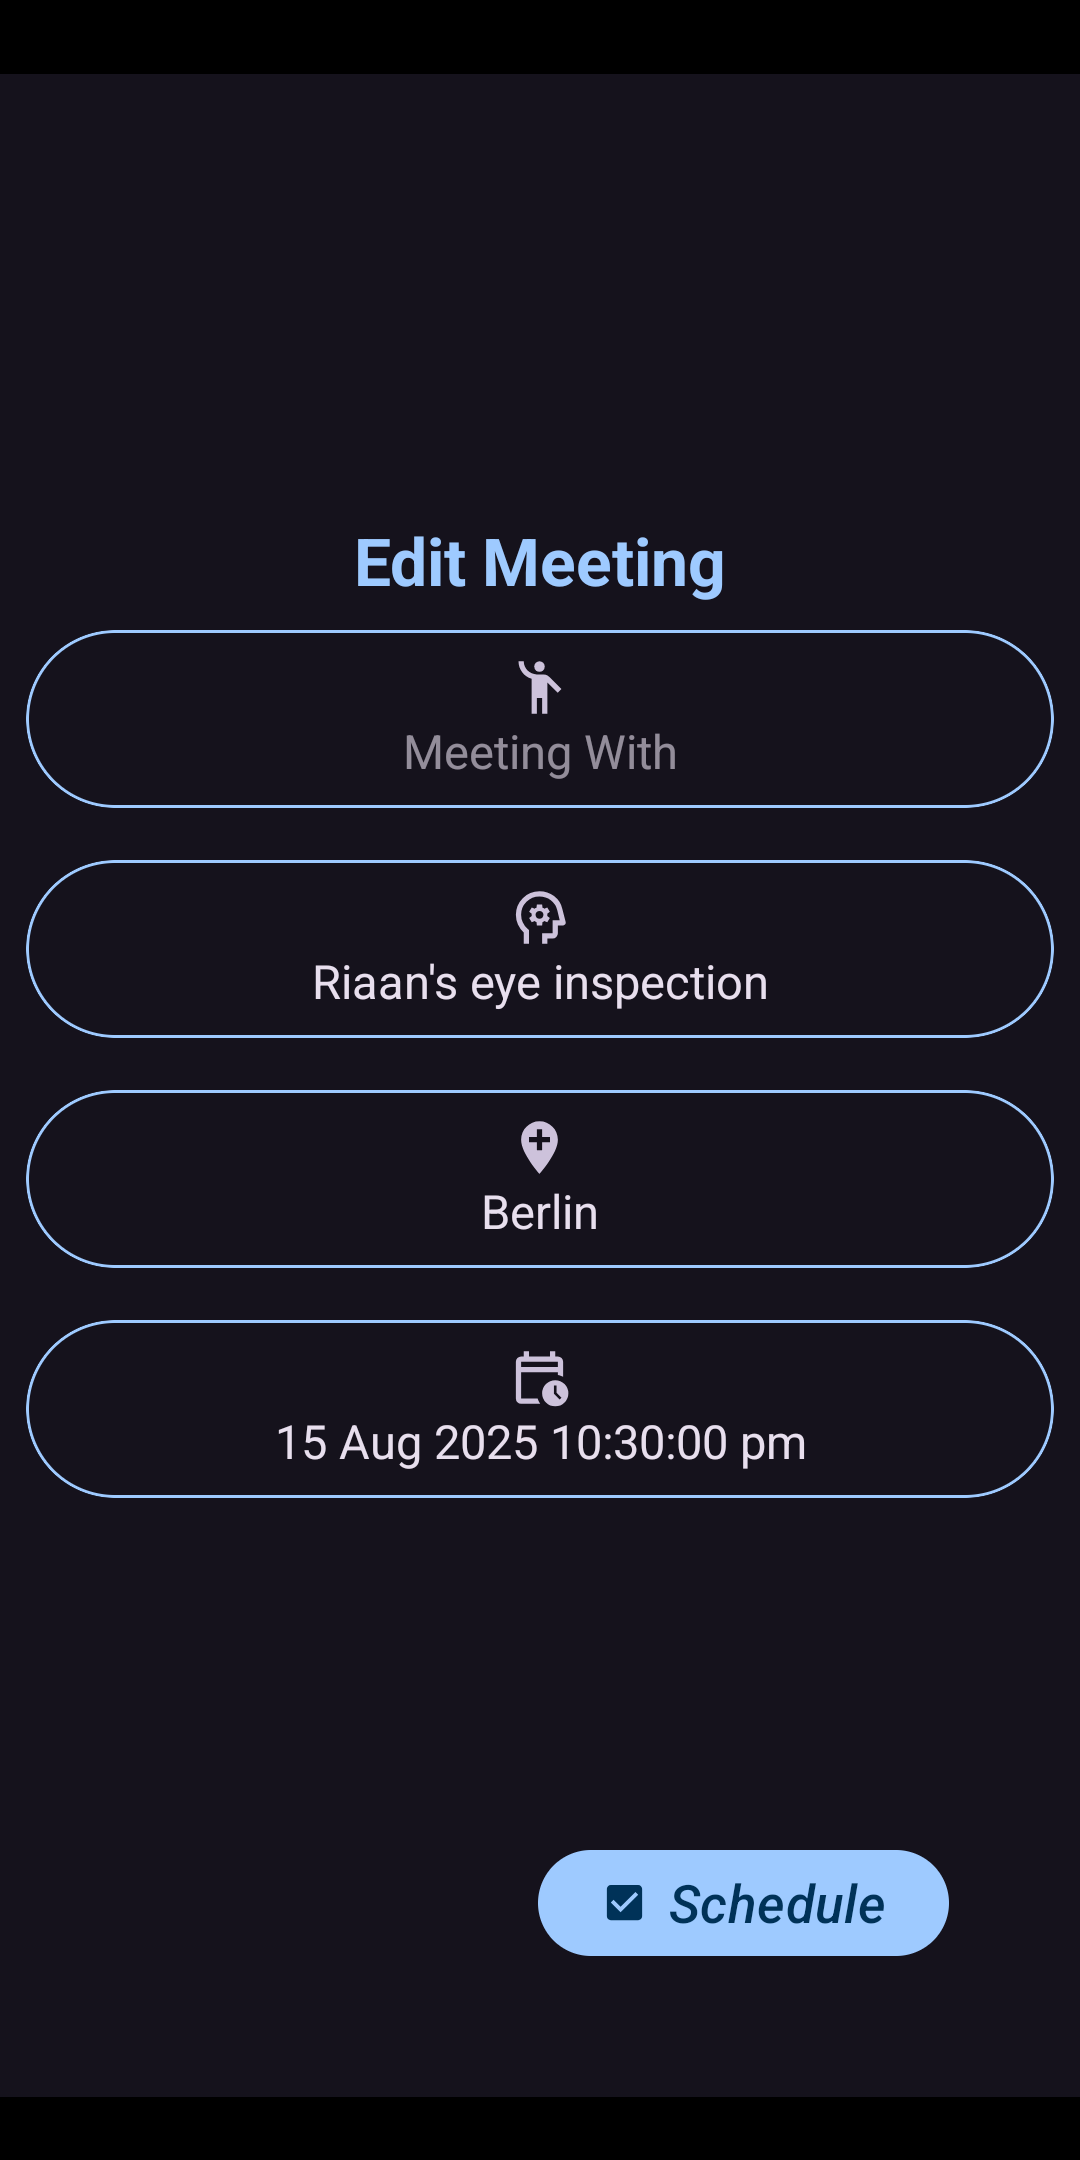
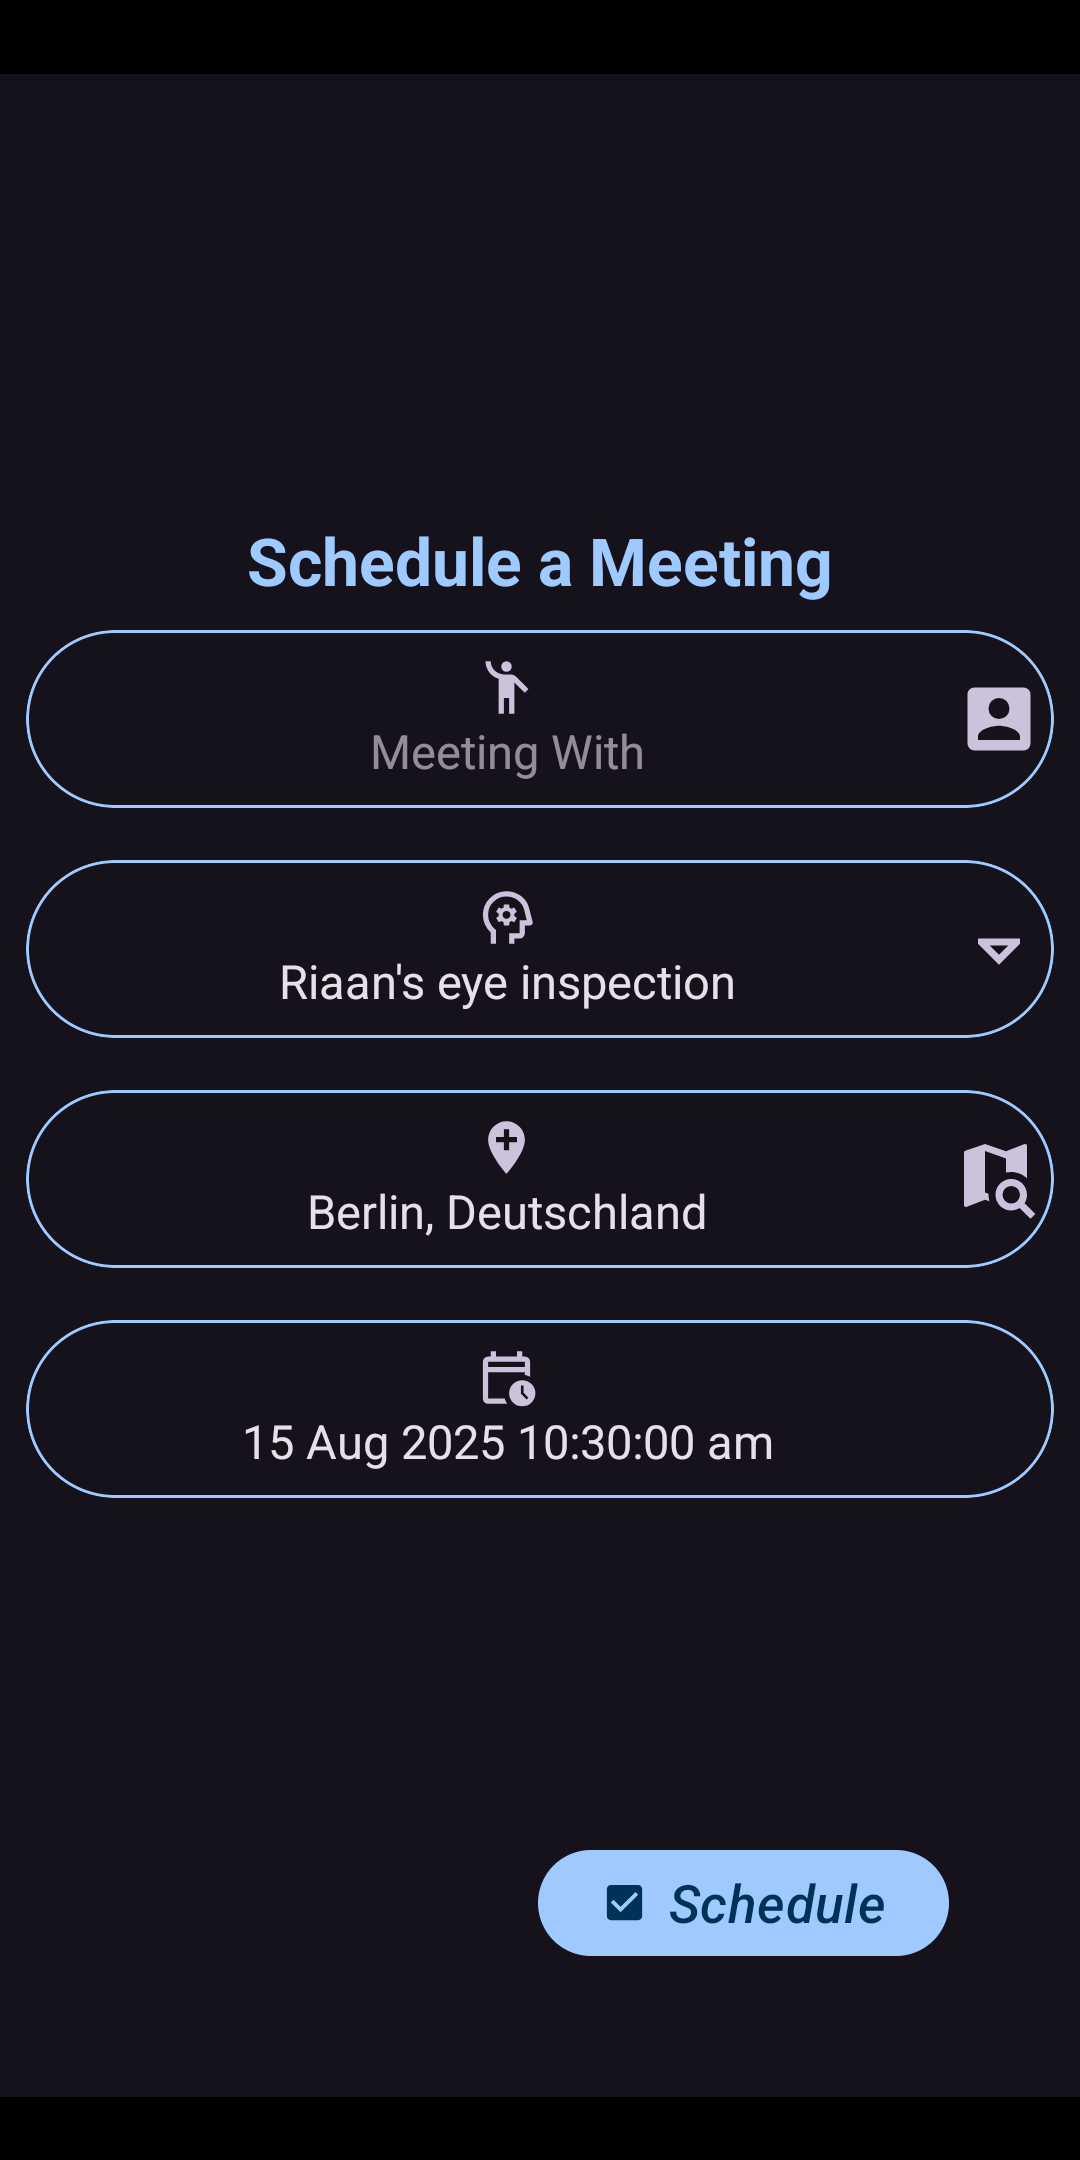
Meetly v0.3

diff --git a/_pages/privacypolicy.md b/_pages/privacypolicy.md
@@ -25,9 +25,11 @@ We do not collect, store, or share any personal information about our users. Use
 Meetly requires the following permissions to deliver its features:
 
 1. *CAMERA*: Used to scan QR codes for quickly importing or sharing meeting details with other Meetly users.
-2. *POST_NOTIFICATIONS*: Allows the app to send optional meeting reminders and alerts to keep you informed.
-3. *USE_BIOMETRIC*: Required to enable biometric authentication (e.g., fingerprint) for securing AppSigner.
-4. *VIBRATE*: Enables subtle vibration feedback for notifications and in-app alerts, improving user experience.
+2. *INTERNET*: Allows the app to fetch location data from www.openstreetmap.org to provide location suggestions.
+3. *POST_NOTIFICATIONS*: Allows the app to send optional meeting reminders and alerts to keep you informed.
+4. *READ_CONTACTS*: Used to autofill participant details from your address book.
+5. *USE_BIOMETRIC*: Required to enable biometric authentication (e.g., fingerprint) for securing AppSigner.
+6. *VIBRATE*: Enables subtle vibration feedback for notifications and in-app alerts, improving user experience.
 
 <h3 style="color: green">Contact Us</h3>
 

diff --git a/_pages/changelog.md b/_pages/changelog.md
@@ -6,5 +6,16 @@ include_in_header: true
 
 <h2 style="color: blue">What's New</h2>
 
+<h3 style="color: green">v0.3</h3>
+- Added support for searching locations via www.openstreetmap.org.
+- You can now select names directly from your contacts.
+- Choose a meeting purpose from a predefined list for quicker setup.
+- New option to use the 24-hour clock format.
+- Miscellaneous changes.
+
+✨ Special thanks to Daniel Schlapa (https://schlapa.net) for the valuable suggestions and testing!
+
+<hr>
+
 <h3 style="color: green">v0.2</h3>
 - First public release.

diff --git a/README.md b/README.md
@@ -32,7 +32,11 @@ Meetly is a private and minimalistic meeting manager—no ads, no tracking. Just
     🎓 Students managing study groups
     🎯 Anyone who wants to stay organized—offline
 
-## Downloads
+🙏 Acknowledgements:
+
+👤 [Daniel Schlapa](https://schlapa.net) for the valuable suggestions and testing
+
+⬇ Downloads:
 
 [<img src="https://play.google.com/intl/en_us/badges/images/generic/en-play-badge.png"
 alt=""
